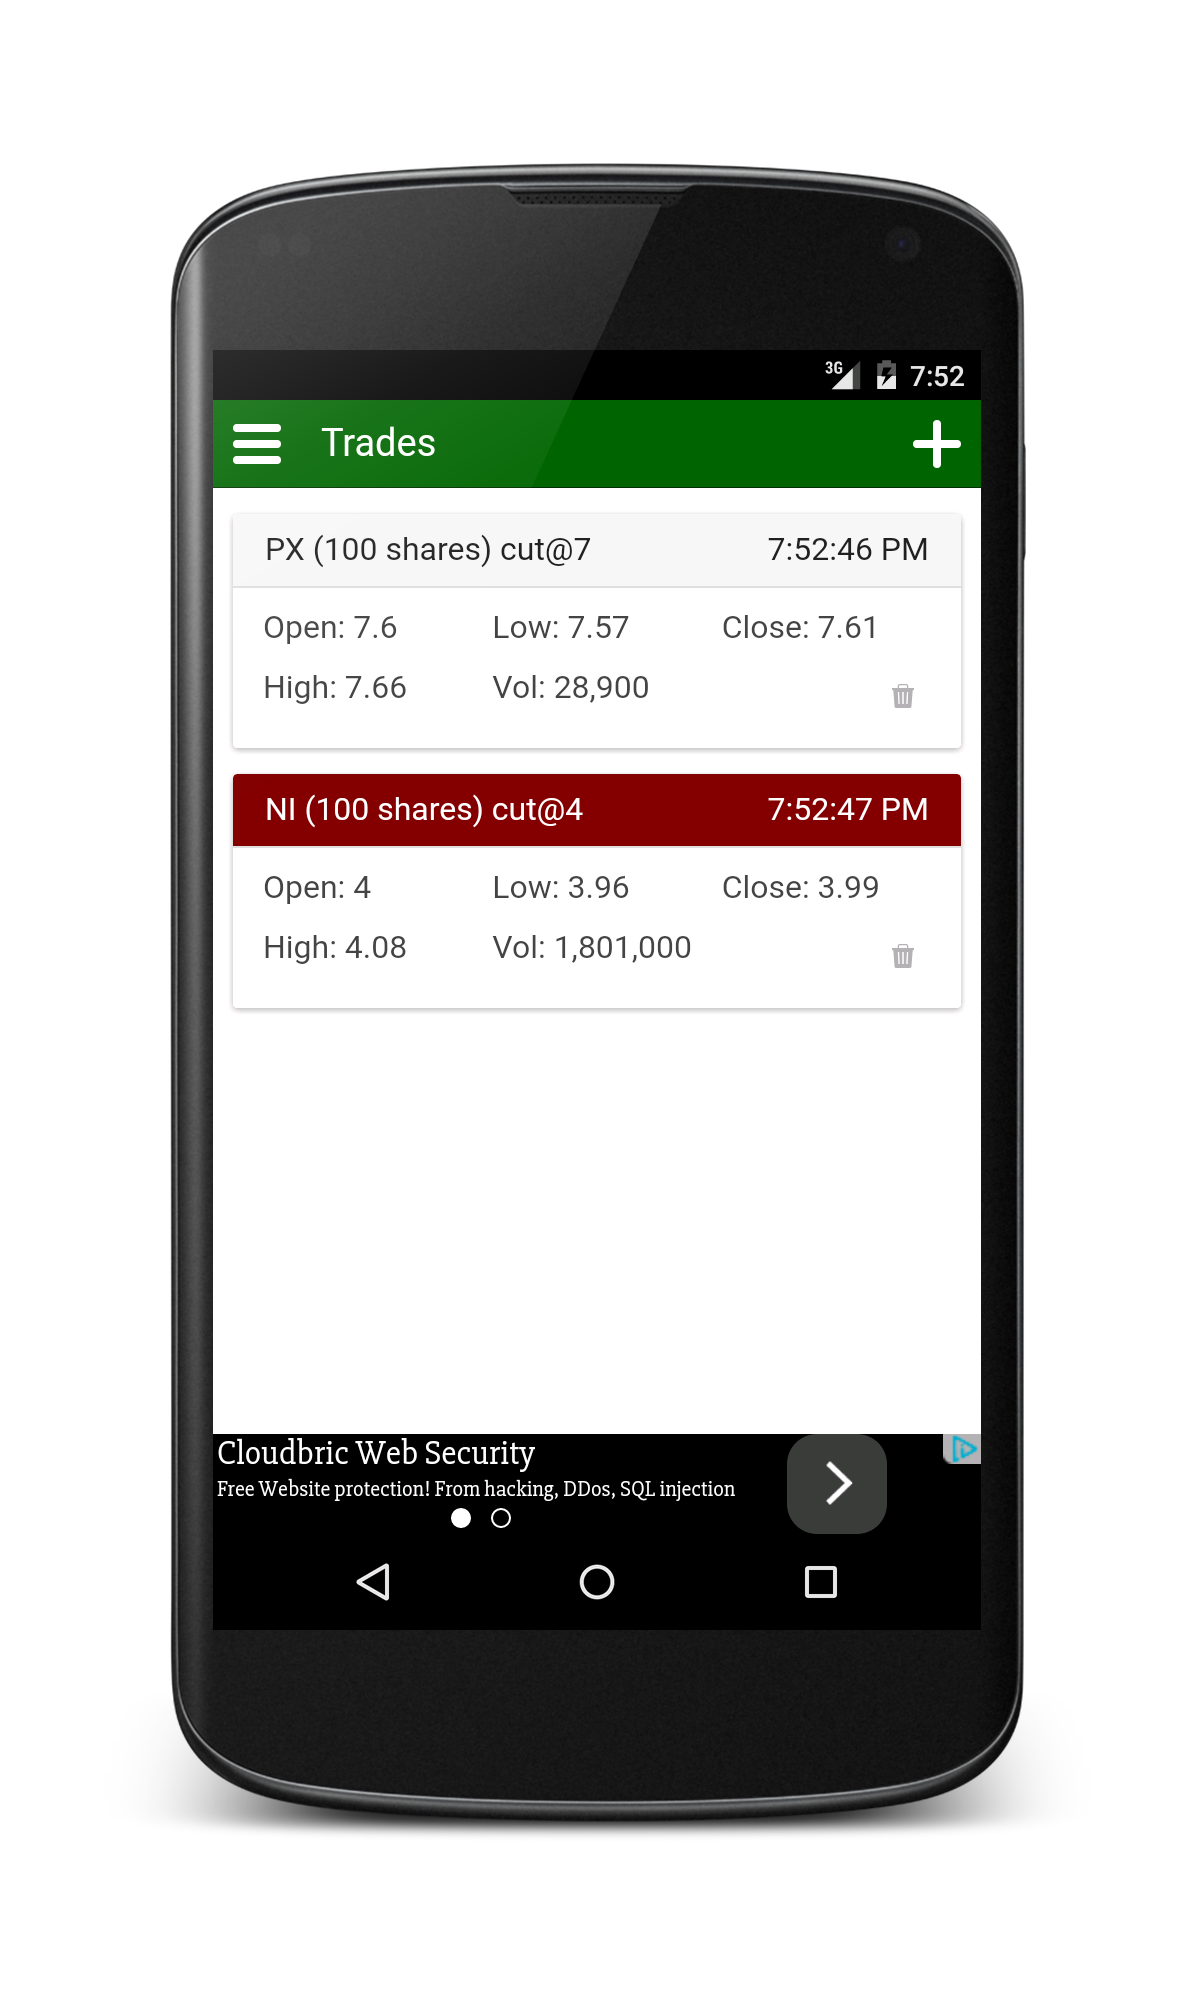
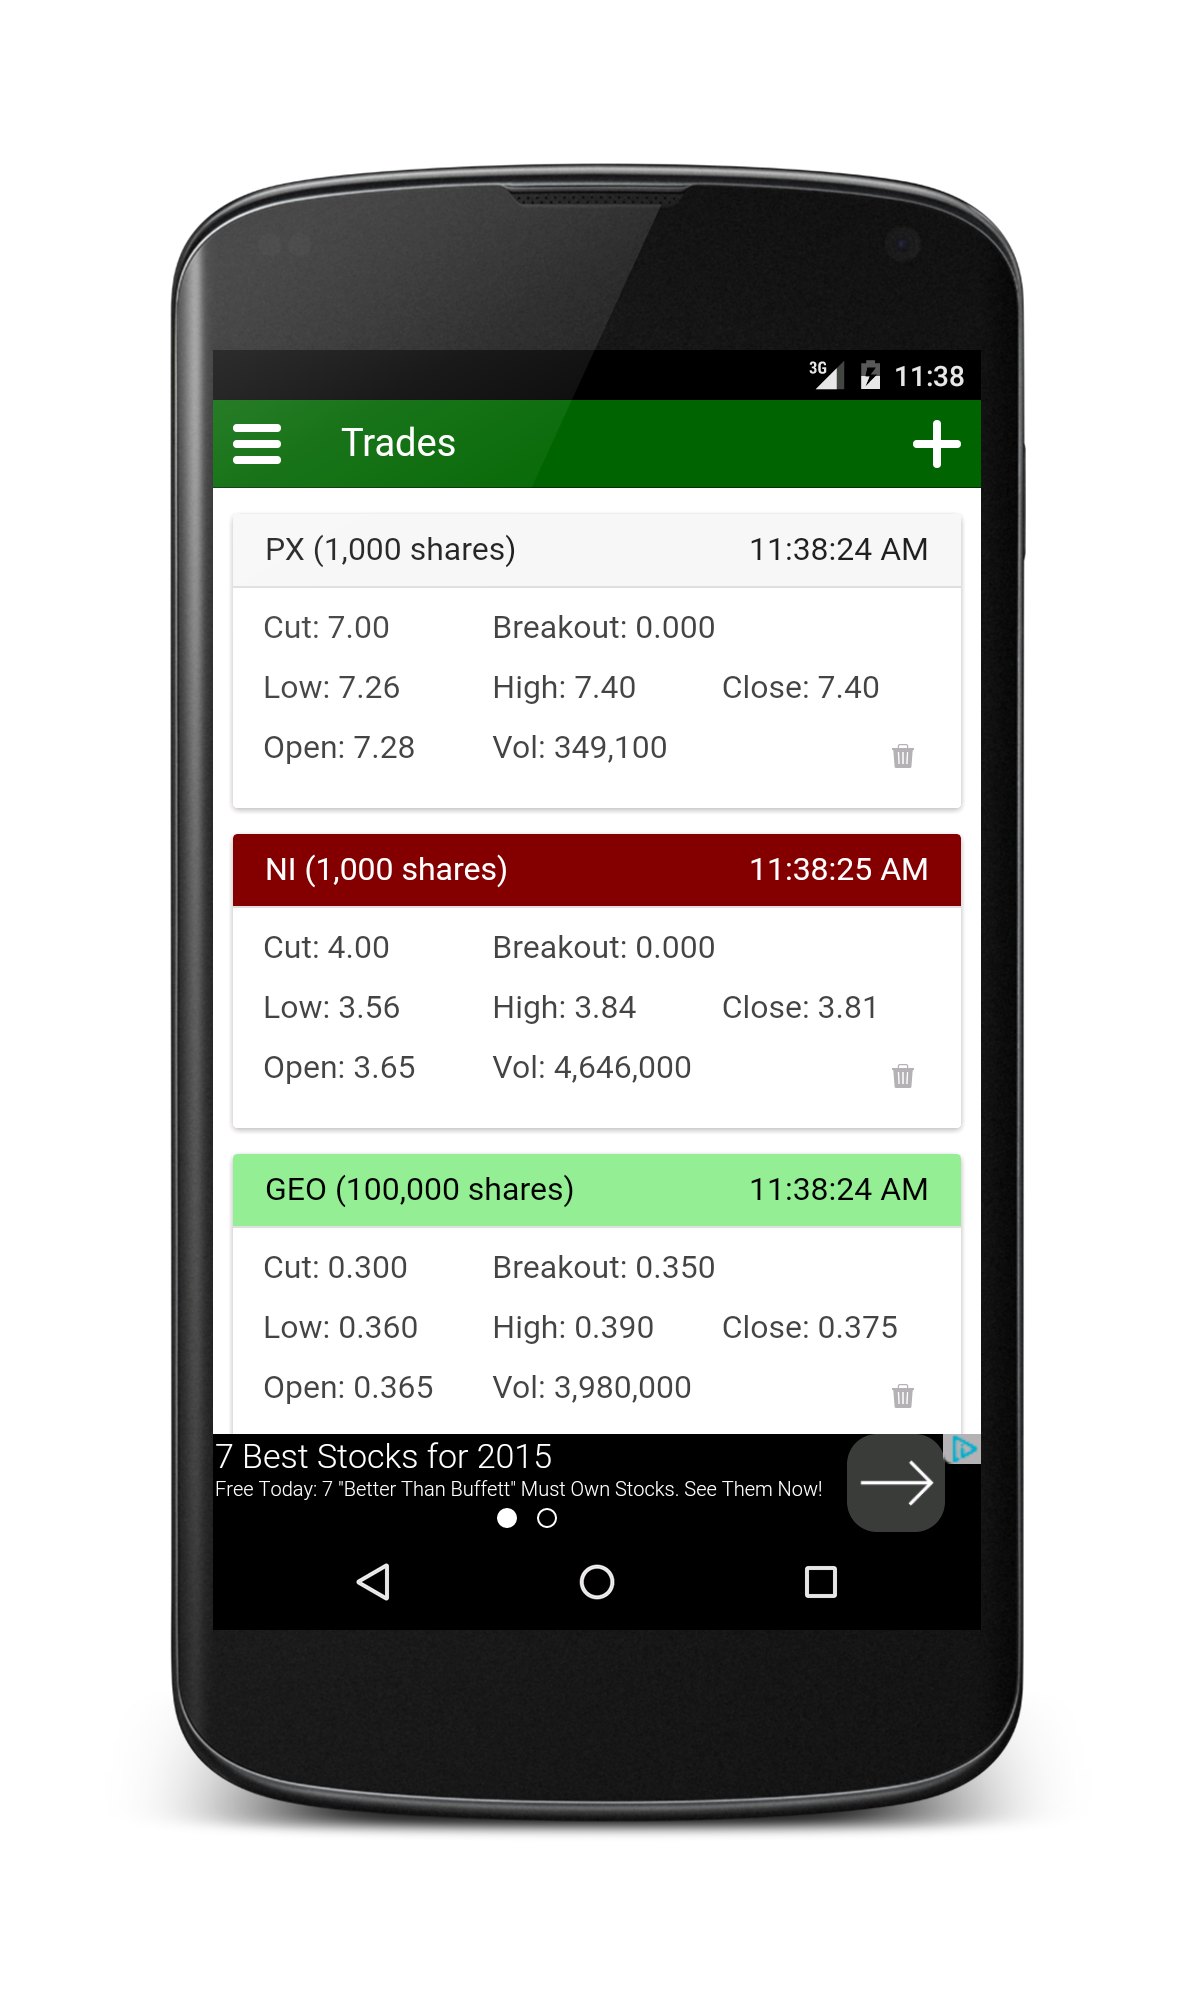
Updated to reflect the new breakout alert feature

diff --git a/index.html b/index.html
@@ -1,4 +1,4 @@
-<!doctype html><html><head><meta charset=utf-8><meta http-equiv=X-UA-Compatible content="IE=edge"><meta name=description content="Trade smartly on the PSE"><meta name=viewport content="width=device-width, initial-scale=1"><title>PSE Trader</title><link rel=manifest href=manifest.json><meta name=mobile-web-app-capable content=yes><meta name=application-name content="Web Starter Kit"><link rel="shortcut icon" href=favicon.ico type=image/x-icon><link rel=icon href=favicon.ico type=image/x-icon><meta name=apple-mobile-web-app-capable content=yes><meta name=apple-mobile-web-app-status-bar-style content=black><meta name=apple-mobile-web-app-title content="Web Starter Kit"><link rel=apple-touch-icon href=images/touch/apple-touch-icon.png><meta name=msapplication-TileImage content=images/touch/ms-touch-icon-144x144-precomposed.png><meta name=msapplication-TileColor content=#3372DF><meta name=theme-color content=#3372DF><link rel=stylesheet href=styles/main.css></head><body><header class="app-bar promote-layer" id=home><div class=app-bar-container><button class=menu><img src=images/hamburger.svg alt=Menu></button><h1 class=logo><img src=images/icon.png height=34> <strong>PSE Trader</strong></h1><section class=app-bar-actions></section></div></header><nav class="navdrawer-container promote-layer"><h4>Navigation</h4><ul><li><a href=#home>Home</a></li><li><a href=#videoTour>Video Tour</a></li><li><a href=#gettingStarted>Getting Started</a></li><li><a href=#support>Support</a></li></ul></nav><main><div class=g--half><h2>Trade smartly on the PSE</h2><p>Trading on the PSE has always been a risky activity especially for part-time traders. No broker supports <a href=http://www.investopedia.com/terms/s/stop-limitorder.asp>STOP-LIMIT ORDERS</a> which means traders must actively monitor stocks during trading hours to minimize losses or preserve profits. <strong>PSE Trader</strong> will actively monitor your trades for you.</p><ul><li class=check><strong>FREE</strong> to download and install from the Google Play Store</li><li class=check>Timely price updates means you will get alerts that you can act on</li><li class=check>Set sell triggers to protect your capital and preserve your profits</li><li class=check>When triggers are fired, you will get visual, audio and tactile alerts</li></ul><p><a href="https://play.google.com/store/apps/details?id=com.henyo.psetrader"><img alt="Get it on Google Play" class=center src=https://developer.android.com/images/brand/en_generic_rgb_wo_60.png></a></p></div><div class="g--half g--last"><img src=images/Nexus4-screenshot1_framed.png></div><br><div class="g-medium--full g-wide--full"><br><hr class="g--half g--centered"></div><div class=g--half><p><iframe width=420 height=315 src="https://www.youtube.com/embed/RkktpQSF7g8?rel=0" frameborder=0></iframe></p></div><div class="g--half g--last" id=videoTour><h2>Watch the video tour</h2><p>Monitoring your trades with PSE Trader is so simple. The video shows how to add trades as well as the effects when the cut price level is breached</p><p><a href="https://play.google.com/store/apps/details?id=com.henyo.psetrader"><img alt="Get it on Google Play" class=center src=https://developer.android.com/images/brand/en_generic_rgb_wo_60.png></a></p></div><div class="g-medium--full g-wide--full"><br><hr class="g--half g--centered"><h2 id=gettingStarted>Getting Started</h2></div><div class=g--third><img src=images/Nexus4-screenshot1_framed.png> <strong>Trades Screen</strong><br>Here you can see trades that the application is monitoring. A grey header indicates that no triggers have fired. A <span style=background-color:maroon;color:white>red header</span> indicates that the stop loss trigger has been breached and you should exit the trade to preserve capital or profits.</div><div class=g--third><img src=images/Nexus4-screenshot2_framed.png> <strong>New Trade Form</strong><br>This form adds a trade to monitor and is shown when you tap on the <strong>+</strong> on the upper right portion of the Trades screen. You need to provide a valid symbol and the number of shares that you have. The app will alert you when the price of the stock touches or goes below the Cut Price.</div><div class="g--third g--last"><img src=images/Nexus4-screenshot4_framed.png> <strong>Settings Screen</strong><br>Here you can find the app settings which you can change. Data refresh rate changes how often the app gets price data. Keep device awake disables device autolock. You can also disable vibration and sound alerts.</div><div class="g-medium--full g-wide--full"><p class=g--center><a href="https://play.google.com/store/apps/details?id=com.henyo.psetrader"><img alt="Get it on Google Play" class=center src=https://developer.android.com/images/brand/en_generic_rgb_wo_60.png></a></p><br><hr class="g--half g--centered"></div><div class=g--half><h3>Disclaimer</h3><p>PSE Trader is a tool and thus may fail due to human error or external factors like connectivity and data accuracy and/or availability of providers. As such, the tools creator and related parties can NOT be held liable for any losses that occur due to direct or indirect use of the tool. The tool is provided as is with no warranties or guarantees. Support is provided on a best effort basis thru the issues page.</p></div><div class="g--half g--last"><h3 id=support>Support</h3><p>For bug reports, feature requests, suggestions or other questions, please visit our <a href=https://github.com/pse-trader/pse-trader.github.io/issues>issues page</a>.</p></div></main><script src=scripts/main.min.js></script><script>
+<!doctype html><html><head><meta charset=utf-8><meta http-equiv=X-UA-Compatible content="IE=edge"><meta name=description content="Trade smartly on the PSE"><meta name=viewport content="width=device-width, initial-scale=1"><title>PSE Trader</title><link rel=manifest href=manifest.json><meta name=mobile-web-app-capable content=yes><meta name=application-name content="Web Starter Kit"><link rel="shortcut icon" href=favicon.ico type=image/x-icon><link rel=icon href=favicon.ico type=image/x-icon><meta name=apple-mobile-web-app-capable content=yes><meta name=apple-mobile-web-app-status-bar-style content=black><meta name=apple-mobile-web-app-title content="Web Starter Kit"><link rel=apple-touch-icon href=images/touch/apple-touch-icon.png><meta name=msapplication-TileImage content=images/touch/ms-touch-icon-144x144-precomposed.png><meta name=msapplication-TileColor content=#3372DF><meta name=theme-color content=#3372DF><link rel=stylesheet href=styles/main.css></head><body><header class="app-bar promote-layer" id=home><div class=app-bar-container><button class=menu><img src=images/hamburger.svg alt=Menu></button><h1 class=logo><img src=images/icon.png height=34> <strong>PSE Trader</strong></h1><section class=app-bar-actions></section></div></header><nav class="navdrawer-container promote-layer"><h4>Navigation</h4><ul><li><a href=#home>Home</a></li><li><a href=#videoTour>Video Tour</a></li><li><a href=#gettingStarted>Getting Started</a></li><li><a href=#support>Support</a></li></ul></nav><main><div class=g--half><h2>Trade smartly on the PSE</h2><p>Trading on the PSE has always been a risky activity especially for part-time traders. No broker supports <a href=http://www.investopedia.com/terms/s/stop-limitorder.asp>STOP-LIMIT ORDERS</a> which means traders must actively monitor stocks during trading hours to minimize losses or preserve profits. <strong>PSE Trader</strong> will actively monitor your trades for you.</p><ul><li class=check><strong>FREE</strong> to download and install from the Google Play Store</li><li class=check>Timely price updates means you will get alerts that you can act on</li><li class=check>Set sell triggers to protect your capital and preserve your profits</li><li class=check>Set buy triggers so your can enter a trade at the precise moment that you planned</li><li class=check>When triggers are fired, you will get visual, audio and tactile alerts</li></ul><p><a href="https://play.google.com/store/apps/details?id=com.henyo.psetrader"><img alt="Get it on Google Play" class=center src=https://developer.android.com/images/brand/en_generic_rgb_wo_60.png></a></p></div><div class="g--half g--last"><img src=images/Nexus4-screenshot1_framed.png></div><br><div class="g-medium--full g-wide--full"><br><hr class="g--half g--centered"></div><div class=g--half><p><iframe width=420 height=315 src="https://www.youtube.com/embed/RkktpQSF7g8?rel=0" frameborder=0></iframe></p></div><div class="g--half g--last" id=videoTour><h2>Watch the video tour</h2><p>Monitoring your trades with PSE Trader is so simple. The video shows how to add trades as well as the effects when the cut price level is breached</p><p><a href="https://play.google.com/store/apps/details?id=com.henyo.psetrader"><img alt="Get it on Google Play" class=center src=https://developer.android.com/images/brand/en_generic_rgb_wo_60.png></a></p></div><div class="g-medium--full g-wide--full"><br><hr class="g--half g--centered"><h2 id=gettingStarted>Getting Started</h2></div><div class=g--third><img src=images/Nexus4-screenshot1_framed.png> <strong>Trades Screen</strong><br>Here you can see trades that the application is monitoring. A grey header indicates that no triggers have fired. A <span style=background-color:maroon;color:white>red header</span> indicates that the stop loss trigger has been breached and you should exit the trade to preserve capital or profits.</div><div class=g--third><img src=images/Nexus4-screenshot2_framed.png> <strong>New Trade Form</strong><br>This form adds a trade to monitor and is shown when you tap on the <strong>+</strong> on the upper right portion of the Trades screen. You need to provide a valid symbol and the number of shares that you have. The app will alert you when the price of the stock touches or goes below the Cut Price.</div><div class="g--third g--last"><img src=images/Nexus4-screenshot4_framed.png> <strong>Settings Screen</strong><br>Here you can find the app settings which you can change. Data refresh rate changes how often the app gets price data. Keep device awake disables device autolock. You can also disable vibration and sound alerts.</div><div class="g-medium--full g-wide--full"><p class=g--center><a href="https://play.google.com/store/apps/details?id=com.henyo.psetrader"><img alt="Get it on Google Play" class=center src=https://developer.android.com/images/brand/en_generic_rgb_wo_60.png></a></p><br><hr class="g--half g--centered"></div><div class=g--half><h3>Disclaimer</h3><p>PSE Trader is a tool and thus may fail due to human error or external factors like connectivity and data accuracy and/or availability of providers. As such, the tools creator and related parties can NOT be held liable for any losses that occur due to direct or indirect use of the tool. The tool is provided as is with no warranties or guarantees. Support is provided on a best effort basis thru the issues page.</p></div><div class="g--half g--last"><h3 id=support>Support</h3><p>For bug reports, feature requests, suggestions or other questions, please visit our <a href=https://github.com/pse-trader/pse-trader.github.io/issues>issues page</a>.</p></div></main><script src=scripts/main.min.js></script><script>
       (function(i,s,o,g,r,a,m){i['GoogleAnalyticsObject']=r;i[r]=i[r]||function(){
       (i[r].q=i[r].q||[]).push(arguments)},i[r].l=1*new Date();a=s.createElement(o),
       m=s.getElementsByTagName(o)[0];a.async=1;a.src=g;m.parentNode.insertBefore(a,m)
